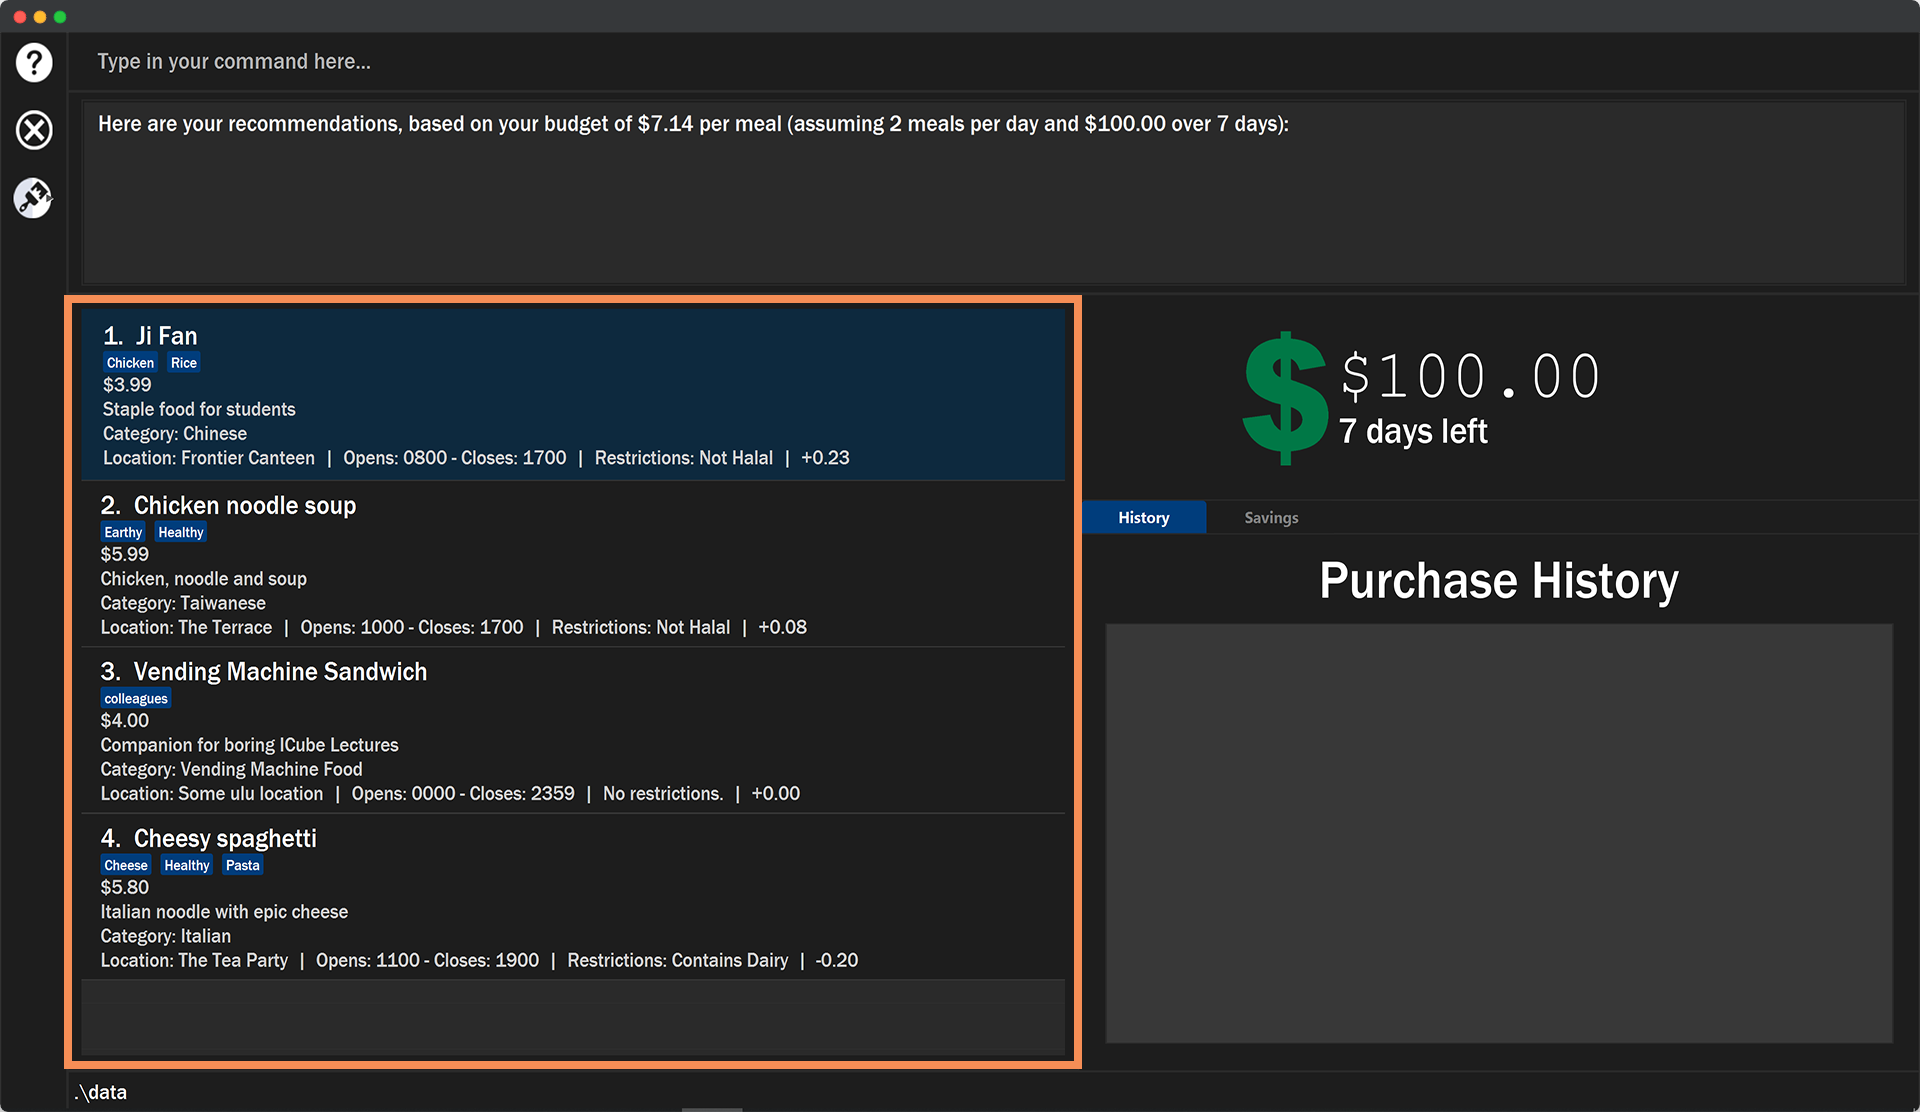
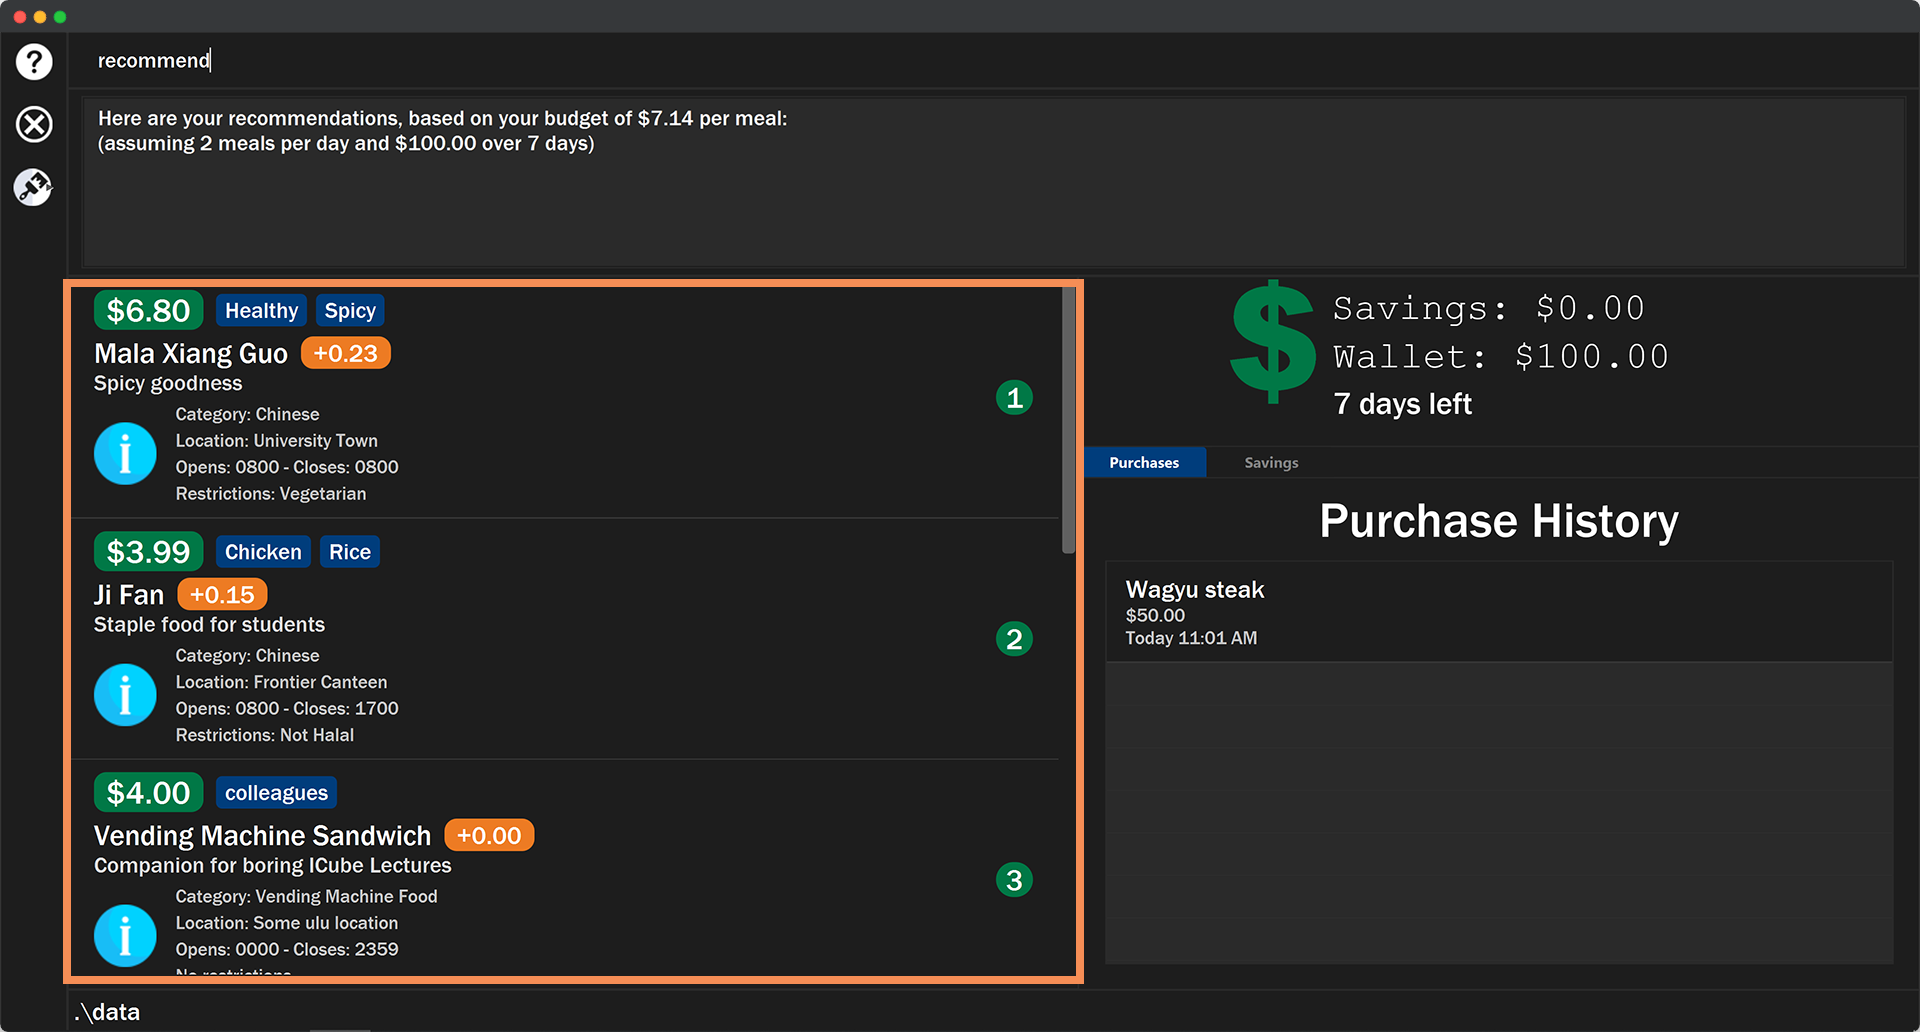
Fix recommendation system bugs and update UG/DG

diff --git a/src/test/java/seedu/savenus/logic/commands/RecommendCommandTest.java b/src/test/java/seedu/savenus/logic/commands/RecommendCommandTest.java
@@ -8,6 +8,8 @@ import static seedu.savenus.logic.commands.CommandTestUtil.assertCommandSuccess;
 import static seedu.savenus.testutil.TypicalMenu.CHICKEN_RICE;
 import static seedu.savenus.testutil.TypicalMenu.getTypicalMenu;
 
+import java.math.BigDecimal;
+
 import org.junit.jupiter.api.BeforeEach;
 import org.junit.jupiter.api.Test;
 
@@ -25,7 +27,6 @@ import seedu.savenus.model.userprefs.UserPrefs;
 import seedu.savenus.model.wallet.Wallet;
 
 //@@author jon-chua
-
 /**
  * Contains integration tests and unit tests for RecommendCommand.
  */
@@ -42,12 +43,16 @@ public class RecommendCommandTest {
         expectedModel = new ModelManager(model.getMenu(), new UserPrefs(), new UserRecommendations(),
                 new PurchaseHistory(), new Wallet(), new CustomSorter(), new SavingsHistory(), new SavingsAccount(),
                 new AliasList());
+
+        RecommendationSystem.getInstance().updateDaysToExpire(0);
+        RecommendationSystem.getInstance().updateBudget(BigDecimal.ZERO);
     }
 
     @Test
     public void execute_recommendCommand() {
         assertCommandSuccess(new RecommendCommand(), model,
-                String.format(RecommendCommand.MESSAGE_SUCCESS, RecommendationSystem.getInstance().getDailyBudget(),
+                String.format(RecommendCommand.MESSAGE_SUCCESS + RecommendCommand.BUDGET_DAYS_NOT_SET,
+                        RecommendationSystem.getInstance().getDailyBudget(),
                         RecommendationSystem.getInstance().getBudget(),
                         RecommendationSystem.getInstance().getDaysToExpire()),
                 expectedModel);
@@ -57,7 +62,8 @@ public class RecommendCommandTest {
     @Test
     public void recommendCommand_notInUse_afterList() {
         assertCommandSuccess(new RecommendCommand(), model,
-                String.format(RecommendCommand.MESSAGE_SUCCESS, RecommendationSystem.getInstance().getDailyBudget(),
+                String.format(RecommendCommand.MESSAGE_SUCCESS + RecommendCommand.BUDGET_DAYS_NOT_SET,
+                        RecommendationSystem.getInstance().getDailyBudget(),
                         RecommendationSystem.getInstance().getBudget(),
                         RecommendationSystem.getInstance().getDaysToExpire()),
                 expectedModel);
@@ -70,7 +76,27 @@ public class RecommendCommandTest {
     @Test
     public void recommendCommand_notInUse_afterAdd() throws CommandException {
         assertCommandSuccess(new RecommendCommand(), model,
-                String.format(RecommendCommand.MESSAGE_SUCCESS, RecommendationSystem.getInstance().getDailyBudget(),
+                String.format(RecommendCommand.MESSAGE_SUCCESS + RecommendCommand.BUDGET_DAYS_NOT_SET,
+                        RecommendationSystem.getInstance().getDailyBudget(),
+                        RecommendationSystem.getInstance().getBudget(),
+                        RecommendationSystem.getInstance().getDaysToExpire()),
+                expectedModel);
+        assertTrue(model.getRecommendationSystem().isInUse());
+
+        CommandResult commandResult = new AddCommand(CHICKEN_RICE).execute(model);
+        assertEquals(String.format(AddCommand.MESSAGE_SUCCESS, CHICKEN_RICE), commandResult.getFeedbackToUser());
+
+        assertFalse(model.getRecommendationSystem().isInUse());
+    }
+
+    @Test
+    public void recommendCommand_budgetSet_doesNotShowMessage() throws CommandException {
+        RecommendationSystem.getInstance().updateDaysToExpire(10);
+        RecommendationSystem.getInstance().updateBudget(BigDecimal.TEN);
+
+        assertCommandSuccess(new RecommendCommand(), model,
+                String.format(RecommendCommand.MESSAGE_SUCCESS + RecommendCommand.BUDGET_SET,
+                        RecommendationSystem.getInstance().getDailyBudget(),
                         RecommendationSystem.getInstance().getBudget(),
                         RecommendationSystem.getInstance().getDaysToExpire()),
                 expectedModel);

diff --git a/src/test/java/seedu/savenus/logic/parser/RemovePrefCommandParserTest.java b/src/test/java/seedu/savenus/logic/parser/RemovePrefCommandParserTest.java
@@ -6,7 +6,6 @@ import static seedu.savenus.logic.commands.CommandTestUtil.CATEGORY_DESC_NASI_LE
 import static seedu.savenus.logic.commands.CommandTestUtil.LOCATION_DESC_CHICKEN_RICE;
 import static seedu.savenus.logic.commands.CommandTestUtil.LOCATION_DESC_NASI_LEMAK;
 import static seedu.savenus.logic.commands.CommandTestUtil.NAME_DESC_CHICKEN_RICE;
-import static seedu.savenus.logic.commands.CommandTestUtil.PREAMBLE_WHITESPACE;
 import static seedu.savenus.logic.commands.CommandTestUtil.PRICE_DESC_CHICKEN_RICE;
 import static seedu.savenus.logic.commands.CommandTestUtil.TAG_DESC_CHICKEN;
 import static seedu.savenus.logic.commands.CommandTestUtil.TAG_DESC_RICE;
@@ -16,6 +15,7 @@ import static seedu.savenus.logic.commands.CommandTestUtil.VALID_LOCATION_CHICKE
 import static seedu.savenus.logic.commands.CommandTestUtil.VALID_LOCATION_NASI_LEMAK;
 import static seedu.savenus.logic.commands.CommandTestUtil.VALID_TAG_CHICKEN;
 import static seedu.savenus.logic.commands.CommandTestUtil.VALID_TAG_RICE;
+import static seedu.savenus.logic.commands.RemovePreferenceCommand.REMOVE_ALL_KEYWORD;
 import static seedu.savenus.logic.parser.CliSyntax.PREFIX_CATEGORY;
 import static seedu.savenus.logic.parser.CliSyntax.PREFIX_LOCATION;
 import static seedu.savenus.logic.parser.CliSyntax.PREFIX_TAG;
@@ -59,9 +59,9 @@ public class RemovePrefCommandParserTest {
     }
 
     @Test
-    public void parse_nothingProvided_success() {
-        assertRemovePreferenceParseSuccess(parser, PREAMBLE_WHITESPACE, new RemoveDislikeCommand(true), false);
-        assertRemovePreferenceParseSuccess(parser, PREAMBLE_WHITESPACE, new RemoveLikeCommand(true), true);
+    public void parse_removeAllFlag_success() {
+        assertRemovePreferenceParseSuccess(parser, REMOVE_ALL_KEYWORD, new RemoveDislikeCommand(true), false);
+        assertRemovePreferenceParseSuccess(parser, REMOVE_ALL_KEYWORD, new RemoveLikeCommand(true), true);
     }
 
     @Test

diff --git a/src/main/java/seedu/savenus/logic/commands/RecommendCommand.java b/src/main/java/seedu/savenus/logic/commands/RecommendCommand.java
@@ -6,6 +6,7 @@ import seedu.savenus.model.Model;
 import seedu.savenus.model.recommend.RecommendationSystem;
 
 //@@author jon-chua
+
 /**
  * Recommends food to the user.
  */
@@ -14,14 +15,32 @@ public class RecommendCommand extends Command {
     public static final String COMMAND_WORD = "recommend";
 
     public static final String MESSAGE_SUCCESS = "Here are your recommendations, based on your budget of $%.2f "
-        + "per meal (assuming 2 meals per day and $%.2f over %d days):";
+            + "per meal: ";
+
+    public static final String BUDGET_SET = "\n(assuming 2 meals per day and $%.2f over %d days)";
+
+    public static final String BUDGET_DAYS_NOT_SET = "\n(You have not set a budget expiry date yet! Please do so to "
+            + "ensure more accurate recommendations!)";
 
     @Override
     public CommandResult execute(Model model) {
         requireNonNull(model);
 
         model.setRecommendationSystemInUse(true);
-        return new CommandResult(String.format(MESSAGE_SUCCESS, RecommendationSystem.getInstance().getDailyBudget(),
-                RecommendationSystem.getInstance().getBudget(), RecommendationSystem.getInstance().getDaysToExpire()));
+
+        RecommendationSystem recInstance = RecommendationSystem.getInstance();
+
+        if (recInstance.getDaysToExpire() == 0) {
+            // User has not set daysToExpiry
+            return new CommandResult(String.format(MESSAGE_SUCCESS + BUDGET_DAYS_NOT_SET,
+                    RecommendationSystem.getInstance().getDailyBudget()));
+        } else {
+            return new CommandResult(String.format(MESSAGE_SUCCESS + BUDGET_SET,
+                    RecommendationSystem.getInstance().getDailyBudget(),
+                    RecommendationSystem.getInstance().getBudget(),
+                    RecommendationSystem.getInstance().getDaysToExpire()));
+        }
+
+
     }
 }

diff --git a/src/main/java/seedu/savenus/model/recommend/RecommendationSystem.java b/src/main/java/seedu/savenus/model/recommend/RecommendationSystem.java
@@ -62,7 +62,7 @@ public class RecommendationSystem implements Recommender {
     public static final int DISLIKED_TAG_PENALTY_HIGH_NUM = 3;
 
     // Negative multiplier starting from -10 to 0, valid for 2 days (172800000ms)
-    public static final int JUST_BOUGHT_FOOD_VALIDITY = 172800000;
+    private static final int JUST_BOUGHT_FOOD_VALIDITY = 172800000;
 
     private static final Comparator<Food> DEFAULT_COMPARATOR = (x, y) -> 0;
     private static final Predicate<Food> DEFAULT_PREDICATE = x -> true;
@@ -393,9 +393,14 @@ public class RecommendationSystem implements Recommender {
         requireNonNull(budget);
 
         this.budget = budget;
-        if (budget.equals(BigDecimal.ZERO) || daysToExpire == 0) {
+        if (budget.equals(BigDecimal.ZERO)) {
             this.dailyBudget = BigDecimal.ZERO;
+        } else if (daysToExpire == 0) {
+            // User has not set a daysToExpiry of budget, just calculate using their given budget
+            this.dailyBudget = budget;
         } else {
+            // User has provided budget and daysToExpiry of budget, calculate using the formula
+            // dailyBudget = budget / (daysToExpire * 2), assuming 2 meals per day
             this.dailyBudget = budget.divide(new BigDecimal(daysToExpire * 2), 2, RoundingMode.HALF_DOWN);
         }
     }
@@ -417,7 +422,6 @@ public class RecommendationSystem implements Recommender {
 
     @Override
     public void updateDaysToExpire(int daysToExpire) {
-        requireNonNull(daysToExpire);
         this.daysToExpire = daysToExpire;
     }
 

diff --git a/src/main/java/seedu/savenus/logic/parser/RemovePreferenceCommandParser.java b/src/main/java/seedu/savenus/logic/parser/RemovePreferenceCommandParser.java
@@ -1,6 +1,7 @@
 package seedu.savenus.logic.parser;
 
 import static seedu.savenus.commons.core.Messages.MESSAGE_INVALID_COMMAND_FORMAT;
+import static seedu.savenus.logic.commands.RemovePreferenceCommand.REMOVE_ALL_KEYWORD;
 import static seedu.savenus.logic.parser.CliSyntax.PREFIX_CATEGORY;
 import static seedu.savenus.logic.parser.CliSyntax.PREFIX_LOCATION;
 import static seedu.savenus.logic.parser.CliSyntax.PREFIX_TAG;
@@ -34,14 +35,14 @@ public class RemovePreferenceCommandParser implements Parser<RemovePreferenceCom
      * @throws ParseException if the user input does not conform the expected format
      */
     public RemovePreferenceCommand parse(String args, boolean isLike) throws ParseException {
-        ArgumentMultimap argMultimap =
-                ArgumentTokenizer.tokenize(args, PREFIX_CATEGORY, PREFIX_TAG, PREFIX_LOCATION);
-
-        if (args.isBlank() && isLike) {
+        if (args.trim().equals(REMOVE_ALL_KEYWORD) && isLike) {
             return new RemoveLikeCommand(true);
-        } else if (args.isBlank() && !isLike) {
+        } else if (args.trim().equals(REMOVE_ALL_KEYWORD) && !isLike) {
             return new RemoveDislikeCommand(true);
         }
+
+        ArgumentMultimap argMultimap =
+                ArgumentTokenizer.tokenize(args, PREFIX_CATEGORY, PREFIX_TAG, PREFIX_LOCATION);
 
         // If none of these arguments are not present, will throw an error.
         if (!areAnyPrefixesPresent(argMultimap, PREFIX_CATEGORY, PREFIX_TAG, PREFIX_LOCATION)

diff --git a/src/main/java/seedu/savenus/logic/commands/RemovePreferenceCommand.java b/src/main/java/seedu/savenus/logic/commands/RemovePreferenceCommand.java
@@ -26,11 +26,13 @@ public class RemovePreferenceCommand extends Command {
     public static final String MESSAGE_USAGE = COMMAND_WORD
             + ": Removes likes or dislikes from a particular category, tag or location in our menu. Parameters: ["
             + PREFIX_CATEGORY + "CATEGORY]... [" + PREFIX_TAG + "TAG]... ["
-            + PREFIX_LOCATION + "...]\n" + "Example: " + COMMAND_WORD + " " + PREFIX_CATEGORY + "Chinese "
+            + PREFIX_LOCATION + "LOCATION]...\n" + "Example: " + COMMAND_WORD + " " + PREFIX_CATEGORY + "Chinese "
             + PREFIX_CATEGORY + "Western " + PREFIX_LOCATION + "University Town " + PREFIX_LOCATION + "The Deck "
-            + PREFIX_TAG + "Spicy " + PREFIX_TAG + "Healthy";
+            + PREFIX_TAG + "Spicy " + PREFIX_TAG + "Healthy\n"
+            + "Provide the ALL flag to remove all likes/dislikes. (Example: removelike ALL)";
 
     public static final String NOT_FOUND = "Please ensure all entries to remove currently exist in the list!";
+    public static final String REMOVE_ALL_KEYWORD = "ALL";
 
     public final Set<Category> categoryList;
     public final Set<Tag> tagList;
